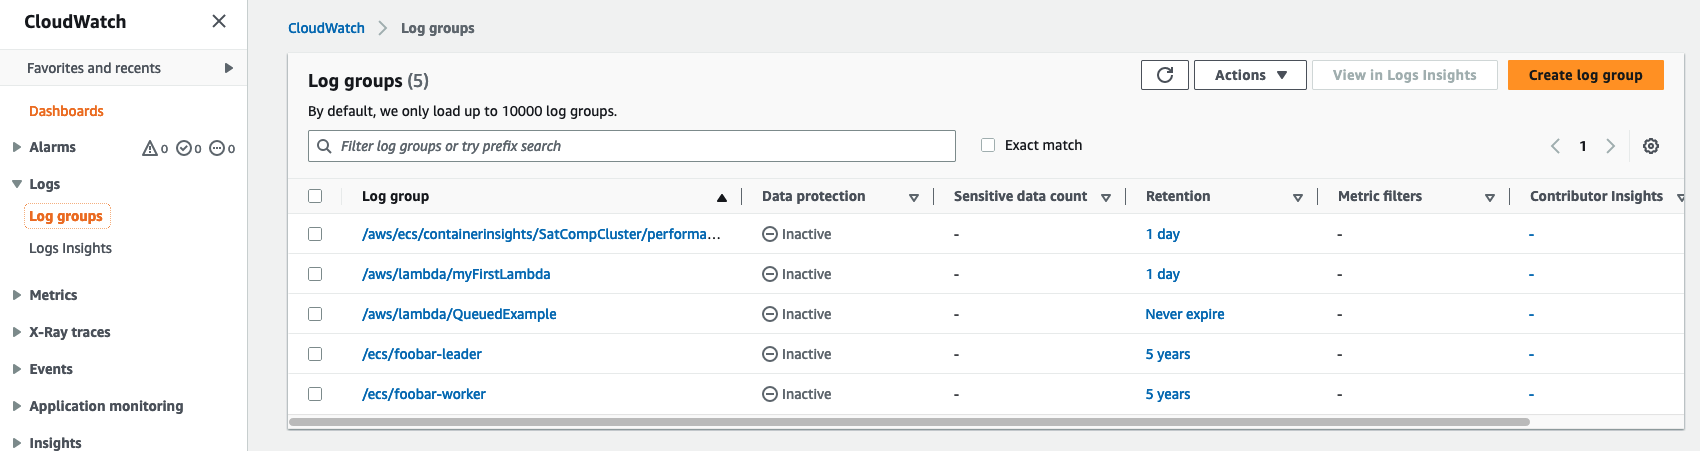
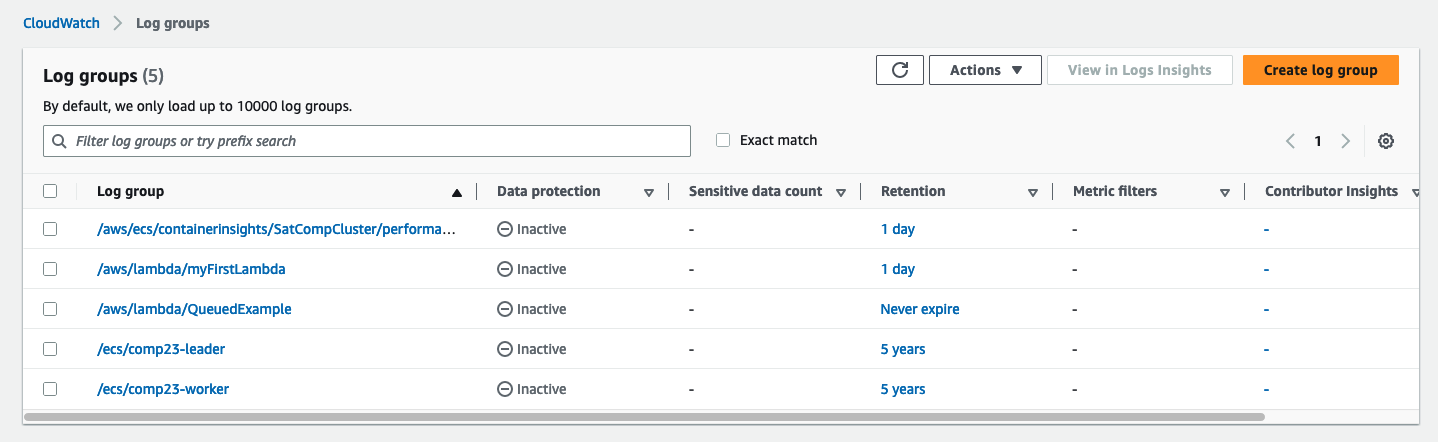
Addressed Ben's comments again

diff --git a/infrastructure/manage-solver-infrastructure.py b/infrastructure/manage-solver-infrastructure.py
@@ -229,7 +229,7 @@ def delete_resources(session, s3, project_name, bucket) -> None:
 def arg_parser() -> dict: 
     parser = argparse.ArgumentParser()
     parser.add_argument('--profile', required = False, help = "AWS profile (uses 'default' if not provided)")
-    parser.add_argument('--project', required = True, help = "Name of the project")
+    parser.add_argument('--project', required = False, default = 'comp23', help = "ADVANCED USERS ONLY: Name of the project (default: 'comp23').")
     parser.add_argument('--solver-type', required = True, choices = ('cloud', 'parallel'), help = "Either 'cloud' or 'parallel' depending on the desired configuration.")
     parser.add_argument('--mode', required = False, default = 'create', choices = ('create', 'update', 'delete'), help = "One of 'create', 'update', 'delete': create, update or delete the infrastructure.")
     # MWW: can add these back in for advanced users, but hiding for now.

diff --git a/infrastructure/docker-upload-to-ecr.py b/infrastructure/docker-upload-to-ecr.py
@@ -27,7 +27,7 @@ class STS:
 def arg_parser() -> dict: 
     parser = argparse.ArgumentParser()
     parser.add_argument('--profile', required = False, help = "AWS profile")
-    parser.add_argument('--project', required = True, help = "Name of the project")
+    parser.add_argument('--project', required = False, default = 'comp23', help = "ADVANCED USERS ONLY: Name of the project (default: 'comp23').")
     parser.add_argument('--leader', required = False, help = "Docker tag name of the leader container")
     parser.add_argument('--worker', required = False, help = "Docker tag name of the worker container (only for cloud track)")
     

diff --git a/infrastructure/README-Infrastructure.md b/infrastructure/README-Infrastructure.md
@@ -4,10 +4,11 @@ This README describes how to build and configure AWS infrastructure for the SAT 
 
 You will proceed through the following steps.
 
-* [Creating Solver Infrastructure](#creating-solver-infrastructure)
-* [Preparing Docker Images](#preparing-docker-images)
-* [Storing Analysis Problems in the Cloud](#working-with-s3)
-* [Running your Solver](#running-your-solver)
+* [Mallob Quickstart](#mallob-quickstart).  This will run through all the steps using just two scripts so that you can see an example cloud solver up and running quickly.  After we see it working, then we will explain the steps in more detail.
+* [Managing AWS Solver Infrastructure](#managing-solver-infrastructure).  This section describes the infrastructure creation process in more detail, and how you can switch between parallel and cloud configurations for testing.
+* [Preparing Docker Images for Upload to AWS](#preparing-docker-images).  This section describes how to upload your solver to AWS.
+* [Storing Analysis Problems in the Cloud](#working-with-s3).  This section describes how we store problems for your solver in S3, the main storage service for AWS.
+* [Running your Solver in the Cloud](#running-your-solver).  This section describes how we run your solver in the cloud.
 
 Additional resources are available in a FAQ:
 
@@ -34,7 +35,7 @@ In order to work with AWS, you must install the [AWS CLI](https://aws.amazon.com
 If you have previously installed the AWS CLI, you should ensure it is up to date.
 
 
-### Creating AWS Credentials
+### Creating AWS Credentials for your AWS Account
 
 You must configure AWS credentials to access the resources in your account. For the purposes of simplifying the competition configurations, you will use a so-called _root level access key_. This is _not_ the best practice for security (which would be to create a separate user in your account) but it will suffice for the competition (see FAQ for more information).
 
@@ -63,73 +64,70 @@ We recommend that when you've completed account set-up, you follow the steps in 
 
 ## Mallob Quickstart
 
-For the impatient, we have created two commands to provide a quick start to getting a Mallob container running in AWS.  The first command: `quickstart-build` creates the AWS infrastructure for a cloud solver, builds the Mallob docker images, and uploads them to AWS.  The second command: `quickstart-run` creates a cluster to run with four nodes (1 leader and 3 workers); if it is not already running, waits for the cluster to be ready, then submits a solving job and reads the response from the output queue.  After you test out the mallob solver using these commands, you should go through the rest of the readme to see the steps that they are performing and how to do this with your own solver.  
+To allow you to see a solver up and running quickly, we have created two commands to provide a quick start to getting a Mallob container running in AWS.  The first command: `quickstart-build` creates the AWS infrastructure for a cloud solver, builds the Mallob docker images, and uploads them to AWS.  The second command: `quickstart-run` creates a cluster to run with four nodes (1 leader and 3 workers); if it is not already running, waits for the cluster to be ready, then submits a solving job and reads the response from the output queue.  After you test out the mallob solver using these commands, you should go through the rest of the readme to see the steps that they are performing and how to do this with your own solver.  
 
 ### Quickstart Build
 
-This command creates an account, builds Mallob (if not already built), and uploads the Docker images to AWS.  The form is: 
+This command creates an account, builds Mallob (if not already built), and uploads the Docker images to AWS.  The form is simply: 
 
 ```text
-./quickstart-build --project PROJECT_NAME
+./quickstart-build
 ```
-
-where:
-
-* `PROJECT_NAME` is the name of the project. Note that `PROJECT_NAME` must start with a letter and can only contain lowercase letters, numbers, hyphens (-), underscores (_), and forward slashes (/).
 
 This command will require 10-20 minutes to run.  Once it is complete, Mallob should be ready to run, and the infrastructure should be set up to run a cloud solver.
 
 ### Quickstart Run
 
-This command will spin up a cluster, submit a job to run called `test.cnf` that we uploaded to a storage location in S3 (our storage service), and wait for the result, then spins down the cluster.  The form of the command is: 
+This command will spin up a cluster, submit a job to run called `test.cnf` that we uploaded to a storage location in S3 (the AWS storage service), and wait for the result, then spins down the cluster.  The form of the command is: 
 
 ```text
-./quickstart-run --project PROJECT_NAME 
+./quickstart-run 
 ```
-where:
-* `PROJECT_NAME` is the name of the project that you used for the quickstart build step.
 
-Once the solver is completed, you should see a message back from the solver that the problem was completed and that the result was SATISFIABLE.  The results from the run will be stored in an S3 bucket called: `ACCOUNT_NUMBER-us-east-1-PROJECT_NAME` in a `/tmp` directory.  You can download and inspect them [BK: Explain how.].  In addition we show you later on in this file how to inspect the solver in real time using _CloudWatch Logs_.  
+Once the solver is completed, you should see a message back from the solver that the problem was completed and that the result was SATISFIABLE.  Later on we will show you how to monitor a run using an AWS service called _CloudWatch_ and extract the intermediate files produced by the run, including the stdout and stderr logs, using an AWS service called _S3_.  
 
 Voila!
 
-Now let's talk through how the process works!  
+Now we walk through the different steps in more detail. 
 
+## Managing Solver Infrastructure.
 
-## Creating Solver Infrastructure
+The `quickstart-build` command from the previous section creates the AWS infrastructure necessary to run your solver.  In that creation process, the infrastructure is set up to run cloud (distributed) solvers.  If you want to switch to hosting a parallel solver, run the update command described in the next section.  If something goes wrong, then delete the infrastructure and re-create it as described in [Deleting and Re-creating the Infrastructure](#deleting-and-re-creating-the-infrastructure).
+
+### Switching Between Cloud and Parallel Tracks
+
+If you ran the Mallob `quickstart-build`, then you have already created your solver infrastructure and don't have to do any further work.  In that creation process, the infrastructure is set up for cloud (distributed) solvers.  Once the infrastructure has been created, if you want to update it to switch between machine configurations for the cloud and parallel tracks, you can run the `update-solver-infrastructure` script: 
+
+```text
+./update-solver-infrastructure --solver-type SOLVER_TYPE
+```
+
+where:
+* `SOLVER_TYPE`: is either `cloud` or `parallel` depending on which kind of solver you are running. Note that we will run cloud solvers run on multiple 16-core machines (m6i.4xlarge [RBJ: include links?]) with 64GB memory, while parallel solvers run on a single 64-core machine (m6i.16xlarge) with 256GB memory.
+
+This will change the instance type and memory configurations for the ECS images used. You can switch back and forth as needed.
+
+### Deleting and Re-creating the Infrastructure
+
+If something goes wrong and you want to start over, simply run the `delete-solver-infrastructure` script:
+```text
+./delete-solver-infrastructure 
+```
+
+This will delete the infrastructure and associated resources.  **Note that this deletion includes any files that have been uploaded to your S3 bucket and also any ECR docker images that you have created.** It will not delete your AWS account or security credentials.
 
 Next, you will create the AWS infrastructure necessary to build and test solvers. The SAT and SMT competitions both use the following infrastructure elements.  These should "just work", but there is more information about the different parts of the infrastructure in the FAQ.  To set up your resouces, simply run the  `create-solver-infrastructure` script that we have provided.
 
 ```text
-./create-solver-infrastructure --project PROJECT_NAME --solver-type SOLVER_TYPE
+./create-solver-infrastructure --solver-type SOLVER_TYPE
 ```
 
 where:
-
-* `PROJECT_NAME`: is the name of the project. Note that `PROJECT_NAME` must start with a letter and can only contain lowercase letters, numbers, hyphens (-), underscores (_), and forward slashes (/).
-
 * `SOLVER_TYPE`: is either `cloud` or `parallel` depending on which kind of solver you are running. Note that we will run cloud solvers run on multiple 16-core machines ([m6i.4xlarge](https://aws.amazon.com/ec2/instance-types/)) with 64GB memory, while parallel solvers run on a single 64-core machine ([m6i.16xlarge](https://aws.amazon.com/ec2/instance-types/)) with 256GB memory.
 
 The script will take 5-10 minutes. When complete, all of the needed cloud resources should be created.  The script polls until the creation is complete.  
 
-### Switching Between Cloud and Parallel Tracks
 
-Once the infrastructure has been created, if you want to update it to switch between machine configurations for the cloud and parallel tracks, you can run the `update-solver-infrastructure` script: 
-
-```text
-./update-solver-infrastructure --project PROJECT_NAME --solver-type SOLVER_TYPE
-```
-
-This will change the instance type and memory configurations for the ECS images used. You can switch back and forth as needed.
-
-### Deleting the infrastructure
-
-If something goes wrong and you want to start over, simply run the `delete-solver-infrastructure` script:
-```text
-./delete-solver-infrastructure --project PROJECT_NAME 
-```
-
-This will delete the infrastructure and associated resources.  **Note that this deletion includes any files that have been uploaded to your S3 bucket and also any ECR docker images that you have created.** It will not delete your AWS account or security credentials.
 
 ## Preparing Docker Images
 
@@ -141,17 +139,15 @@ See the [SAT-Comp Docker Images README.md file](../docker/README.md) in the `doc
 
 Amazon stores your solver images in the [Elastic Container Registry (ECR)](https://console.aws.amazon.com/ecr).
 
-The `create-solver-infrastructure` command described earlier creates an ECR repository with the same name as the project (PROJECT_NAME).
+The `create-solver-infrastructure` command described earlier creates an ECR repository with the same name as the project (comp23).
 
 This repository will store the images for the leader and worker.  Once you have created and tested a docker image (or images, for the cloud leader and worker) as described in the [SAT-Comp Docker Images README.md file](../Docker/README.md), you can upload them to your AWS account with the `ecr-push` script:
 
 ```text
-./ecr-push --project PROJECT_NAME [--leader LEADER_IMAGE_TAG] [--worker WORKER_IMAGE_TAG]
+./ecr-push [--leader LEADER_IMAGE_TAG] [--worker WORKER_IMAGE_TAG]
 ```
 
 where:
-
-* `PROJECT_NAME` is the name of the project that you used earlier when creating the account.
 
 * `LEADER_IMAGE_TAG` is the tagged name of the leader docker image (e.g. satcomp-mallob:leader).
 
@@ -161,25 +157,24 @@ The leader and worker tags are optional; you can upload one or both docker image
 
 ## Storing Analysis Problems in the Cloud
 
-We use the AWS Simple Storage Service (S3) to store the analysis problems we want to solve with our solver.  S3 has a concept of a "bucket" which acts like a filesystem.  As part of the `create-solver-infrastructure` CloudFormation script, we have created a bucket for you where you can store files: `ACCOUNT_NUMBER-us-east-1-PROJECT_NAME`, and added a `test.cnf` file to this bucket for testing.  You can start with the `test.cnf` example and skip the rest of this section until you wish to add additional files or buckets for testing your solver.
+We use the AWS Simple Storage Service (S3) to store the analysis problems we want to solve with our solver.  S3 has a concept of a "bucket" which acts like a filesystem.  As part of the `create-solver-infrastructure` CloudFormation script, we have created a bucket for you where you can store files: `ACCOUNT_NUMBER-us-east-1-comp23`, and added a `test.cnf` file to this bucket for testing.  You can start with the `test.cnf` example and skip the rest of this section until you wish to add additional files or buckets for testing your solver.
 
 You can copy files to the bucket with a command similar to this one (when executed from the root directory of this repository, this re-copies the `my-problem.cnf` file to the default bucket):
 
 ```text
-aws s3 cp my-problem.cnf s3://ACCOUNT_NUMBER-us-east-1-PROJECT_NAME
+aws s3 cp my-problem.cnf s3://ACCOUNT_NUMBER-us-east-1-comp23
 ```
 
 When `s3 cp` is complete, you will see your file(s) in the list of objects in the bucket:
 
 ```text
-aws s3 ls s3://ACCOUNT_NUMBER-us-east-1-PROJECT_NAME
+aws s3 ls s3://ACCOUNT_NUMBER-us-east-1-comp23
 ```
 
 More information on creating and managing S3 buckets is found here: [https://aws.amazon.com/s3/](https://aws.amazon.com/s3/). The S3 command line interface is described in more detail here: [https://docs.aws.amazon.com/cli/latest/userguide/cli-services-s3-commands.html](https://docs.aws.amazon.com/cli/latest/userguide/cli-services-s3-commands.html).
 
 ## Running Your Solver
-
-After storing docker images: `PROJECT_NAME:leader` (and for the cloud solver: `PROJECT_NAME:worker`) and placing at least one query file in your S3 bucket, you are ready to run your solver. 
+After storing docker images: `comp23:leader` (and for the cloud solver: `comp23:worker`) and placing at least one query file in your S3 bucket, you are ready to run your solver. 
 
 Running the solver consists of the following steps:
 
@@ -219,8 +214,8 @@ AWS typically requires 2-5 minutes to allocate nodes and host the ECS cluster. Y
 The next page will show a list of job queues, including:
 
 ```text
-job-queue-PROJECT_NAME-SolverLeaderService-...
-job-queue-PROJECT_NAME-SolverWorkerService-...
+job-queue-comp23-SolverLeaderService-...
+job-queue-comp23-SolverWorkerService-...
 ```
 
 The service is running and available when the number of running tasks for the leader is `1` and the number of running tasks for the Worker service is `n`, as chosen with `NUM_WORKERS` in the `ecs-config` script argument.
@@ -240,7 +235,7 @@ send_message --location S3_LOCATION --workers NUM_WORKERS [--timeout TIMEOUT] [-
 ```
 
 with required arguments:
-* `S3_LOCATION` is the S3 location of the query file. For example, for the bucket we described earlier, the location would be `s3://ACCOUNT_NUMBER-us-east-1-PROJECT_NAME/test.cnf`.
+* `S3_LOCATION` is the S3 location of the query file. For example, for the bucket we described earlier, the location would be `s3://ACCOUNT_NUMBER-us-east-1-comp23/test.cnf`.
 * `NUM_WORKERS` is the number of worker nodes to allocate for this problem. Again, we recommend that you start with `NUM_WORKERS` as `1` when beginning. For parallel solvers, you should set `NUM_WORKERS` to `0`.
 
 and optional arguments:
@@ -264,7 +259,7 @@ To debug on the cloud, there are two main mechanisms that we use to examine our 
  ![](readme-images/cloudwatch-log-groups.png)
 _Figure 2: Cloudwatch log groups view_
 
-There should be logs related to `/ecs/PROJECT_NAME-leader` and `/ecs/PROJECT_NAME-worker`.  These logs will capture both stdout and stderr from your solver containers.  For example, in the figure above, I have a solver named `foobar`.  The logs are captured in something called _streams_, usually tied to a specific instance (so, for a cluster you will have one stream for the leader and one for each worker).  Note that if you don't use a solver for a while, CloudWatch will close the stream and open a new one, as you see in Figure 3: 
+There should be logs related to `/ecs/comp23-leader` and `/ecs/comp23-worker`.  These logs will capture both stdout and stderr from your solver containers.  For example, in the figure above, I have a solver named `foobar`.  The logs are captured in something called _streams_, usually tied to a specific instance (so, for a cluster you will have one stream for the leader and one for each worker).  Note that if you don't use a solver for a while, CloudWatch will close the stream and open a new one, as you see in Figure 3: 
 
 ![](readme-images/cloudwatch-log-streams.png)
 _Figure 3: Cloudwatch log groups view_
@@ -276,7 +271,7 @@ The logs themselves are visible as lists of events as shown in Figure 4:
 AWS provides a very full-featured log query language called [CloudWatch Logs Insights](https://docs.aws.amazon.com/AmazonCloudWatch/latest/logs/AnalyzingLogData.html) (visible in the menu in Figure 2) that you can use to search for specific patterns within logs that can often help speed up your debugging.  A full discussion of insights is outside the scope of this document, but the link above leads to a full set of documentation about how use it.
 
 **S3 Storage of Intermediate Files:**
-When the solver is invoked we store the `input.json` file and the analysis problem in a temporary directory that is passed as the argument to the solver.  We recommend that you use the same directory (or create a subdirectory) for storing all of the intermediate files used during solving.  At the conclusion of solving, all contents in this directory _for the leader solver_ will be uploaded to your S3 bucket (`ACCOUNT_NUMBER-us-east-1-PROJECT-NAME`) under a `/tmp/UUID` directory with a unique UUID so that you can inspect them offline.  This way, you can instrument your solvers to write to the filesystem for later analysis.  **N.B.:** currently this is only available for the leader solver; however, we may add the capability to upload data from the workers depending on customer feedback.  If you store the stdout and stderr logs to this directory (as the Mallob example does), then the output message produced by the solver will identify the UUID used for the bucket for easy reference.
+When the solver is invoked we store the `input.json` file and the analysis problem in a temporary directory that is passed as the argument to the solver.  We recommend that you use the same directory (or create a subdirectory) for storing all of the intermediate files used during solving.  At the conclusion of solving, all contents in this directory _for the leader solver_ will be uploaded to your S3 bucket (`ACCOUNT_NUMBER-us-east-1-comp23`) under a `/tmp/UUID` directory with a unique UUID so that you can inspect them offline.  This way, you can instrument your solvers to write to the filesystem for later analysis.  **N.B.:** currently this is only available for the leader solver; however, we may add the capability to upload data from the workers depending on customer feedback.  If you store the stdout and stderr logs to this directory (as the Mallob example does), then the output message produced by the solver will identify the UUID used for the bucket for easy reference.
 
 ### Cluster Teardown
 
@@ -366,7 +361,7 @@ __Step 1:__  Update the size of the EC2 cluster using the EC2 console
 
 To control the instances in your cluster, go to the EC2 console and scroll down on the left side of the console and click on the link that says "Auto Scaling Groups".
 
-In the next page, you will see an autoscaling group called something like `job-queue-PROJECT_NAME-EcsInstance`.
+In the next page, you will see an autoscaling group called something like `job-queue-comp23-EcsInstance`.
 
 1. Select the queue by clicking on it, then click the "Edit" button in the "Group details" section.
 1. Set the desired, and maximum task capacity to n (where n includes 1 leader and n-1 workers, so there is a minimum useful size of 2), and click "Update".
@@ -378,8 +373,8 @@ Navigate to the ECS console, then select the SatCompCluster link.
 The next page should show a list of job queues, including:
 
 ```text
-job-queue-PROJECT_NAME-SolverLeaderService-...
-job-queue-PROJECT_NAME-SolverworkerService-...
+job-queue-comp23-SolverLeaderService-...
+job-queue-comp23-SolverworkerService-...
 ```
 
 Click on the SolverLeaderService job queue and choose "Update".  Set the number of tasks to 1, then choose "Skip to review", then click "Update Service".  You should then navigate back to the SatCompCluster link and click on the SolverWorkerService link.  Choose "Update" and set the number of tasks to n-1, where 'n' is the number of EC2 nodes you created in Setup Step 1.
@@ -400,7 +395,7 @@ You incur costs for the time the cluster is running.
 
 To control the instances in your cluster, go to the EC2 console and scroll down on the left side of the console and click on the link that says "Auto Scaling Groups".
  
-In the next page, you will see an autoscaling group called something like job-queue-PROJECT_NAME-EcsInstance.
+In the next page, you will see an autoscaling group called something like job-queue-comp23-EcsInstance.
  
 1. Select the queue by clicking on it, then click the "Edit" button in the "Group details" section.
 1. Set the desired and maximum task capacity to 0.  This shuts down any EC2 instances.
@@ -441,10 +436,10 @@ For example, for the bucket we described earlier, given a cluster with two nodes
 
 #### Q: What if I want to create different buckets other than the one provided for storing problems in?
 
-In case you wish to create a different bucket, here is a command to create a bucket named `PROJECT_NAME-satcomp-examples`:
+In case you wish to create a different bucket, here is a command to create a bucket named `comp23-satcomp-examples`:
 
 ```text
-aws s3api create-bucket --bucket PROJECT_NAME-satcomp-examples
+aws s3api create-bucket --bucket comp23-satcomp-examples
 ```
 
 Notes: 
@@ -459,11 +454,8 @@ Notes:
 
 Amazon stores your solver images in the [Elastic Container Registry (ECR)](https://console.aws.amazon.com/ecr).
 
-The `create-solver-infrastructure` command described earlier creates an ECR repository:
+The `create-solver-infrastructure` command described earlier creates an ECR repository named `comp23`.
 
-```text
-PROJECT_NAME
-```
 
 This repository store the images for the leader and worker.  
 
@@ -471,7 +463,7 @@ The repository has an associated URI (shown on the console page), which is what 
 The format for URIs is
 
 ```text
-ACCOUNT_NUMBER.dkr.ecr.us-east-1.amazonaws.com/PROJECT_NAME
+ACCOUNT_NUMBER.dkr.ecr.us-east-1.amazonaws.com/comp23
 ```
 
 You will use these URIs to describe where to store our Docker images in AWS.  
@@ -488,19 +480,18 @@ aws ecr get-login-password --region us-east-1 | docker login --username AWS --pa
 Next, you need to tag the image to match the ECR repository.  For the worker, tag the image as:
 
 ```text
-docker tag [LOCAL_WORKER_IMAGE_ID] [AWS_ACCOUNT_NUMBER].dkr.ecr.us-east-1.amazonaws.com/PROJECT\_NAME:worker
+docker tag [LOCAL_WORKER_IMAGE_ID] [AWS_ACCOUNT_NUMBER].dkr.ecr.us-east-1.amazonaws.com/comp23:worker
 ```
 
 where 
 
-* **LOCAL\_WORKER\_IMAGE\_ID** is the local worker image tag (e.g., `my-solver:leader`).  For the sample solver, this image tag is described in the `README.md` instructions.  
+* **LOCAL\_WORKER\_IMAGE\_ID** is the local worker image tag (e.g., `comp23:worker`).  
 * **AWS\_ACCOUNT\_ID** is the account ID where you want to store the image.
-* **PROJECT\_NAME** is the name of the project that you chose in the &quot;Creating the AWS Infrastructure&quot; section above.
 
 For the leader, tag the image as:
 
 ```text
-docker tag LOCAL_LEADER_IMAGE_ID ACCOUNT_NUMBER.dkr.ecr.us-east-1.amazonaws.com/PROJECT_NAME:leader
+docker tag LOCAL_LEADER_IMAGE_ID ACCOUNT_NUMBER.dkr.ecr.us-east-1.amazonaws.com/comp23:leader
 ```
 
 where 
@@ -510,8 +501,8 @@ where
 After these steps, you can docker push the images:
 
 ```text
-docker push ACCOUNT_NUMBER.dkr.ecr.us-east-1.amazonaws.com/PROJECT_NAME:leader
-docker push ACCOUNT_NUMBER.dkr.ecr.us-east-1.amazonaws.com/PROJECT_NAME:worker
+docker push ACCOUNT_NUMBER.dkr.ecr.us-east-1.amazonaws.com/comp23:leader
+docker push ACCOUNT_NUMBER.dkr.ecr.us-east-1.amazonaws.com/comp23:worker
 ```
 
 You should see network progress bars for both images.
